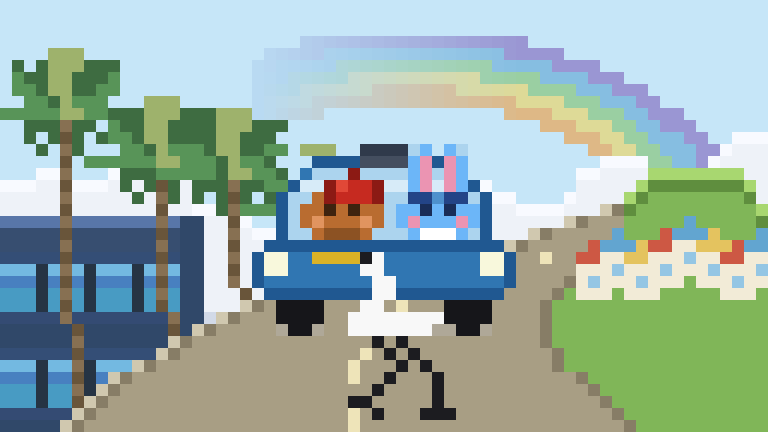
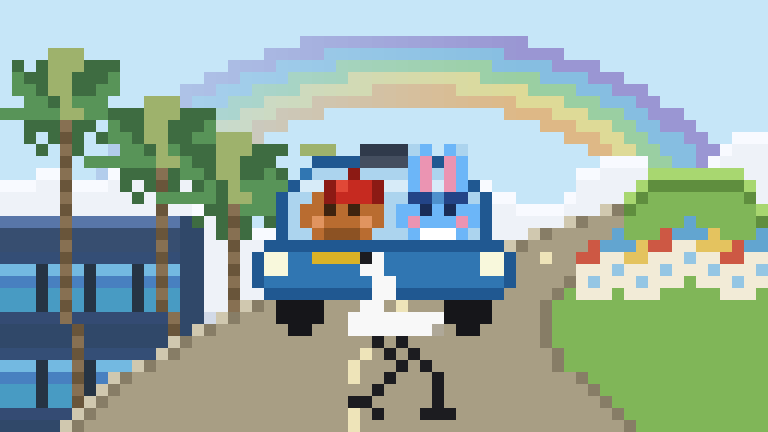
rainbow: 彩虹左边不截断+轮子圆角修色+第三棵树下移+树干提亮

diff --git a/pixel_rainbow.py b/pixel_rainbow.py
@@ -66,7 +66,7 @@ fl(0, 35, 0, 63, SKY)
 # ── Rainbow ──
 RB_RAW = [(228,178,115),(228,218,135),(148,205,148),(125,185,222),(148,138,205)]
 SKY_C = (185, 218, 242)
-_fade_start_x = 21
+_fade_start_x = 0
 _fade_full_x  = 43   # 此处以右完全显示（画面2/3处）
 for _bi, _rc in enumerate(RB_RAW):
     _r1 = 13.0 + _bi * 1.2
@@ -197,7 +197,7 @@ draw_palm(5, 34, height=25) # 橡树旁棕榈探高
 # 中近：橡树+棕榈
 draw_palm(13, 30, height=17)# 棕榈探出
 # 中段：橡树+棕榈
-draw_palm(19, 27, height=13)# 棕榈
+draw_palm(19, 29, height=13)# 棕榈
 # 远处：小橡树+棕榈
 draw_palm(26, 25, height=8) # 远处棕榈
 
@@ -344,8 +344,8 @@ wcol(42, 21, 23, TES_D)
 fl(24, 23, 22, 41, TES_D)
 wrow(24, 22, 41, TES_D)  # 车头底部描边
 
-# 轮子圆角（精确路面色挖角）
-_WBG = (175, 168, 152)
+# 轮子圆角（用当前路面色）
+_WBG = BRIDGE
 sp(23, 27, _WBG); sp(26, 27, _WBG)
 sp(37, 27, _WBG); sp(40, 27, _WBG)
 # 车头圆角（四角用天空/地面色挖）
